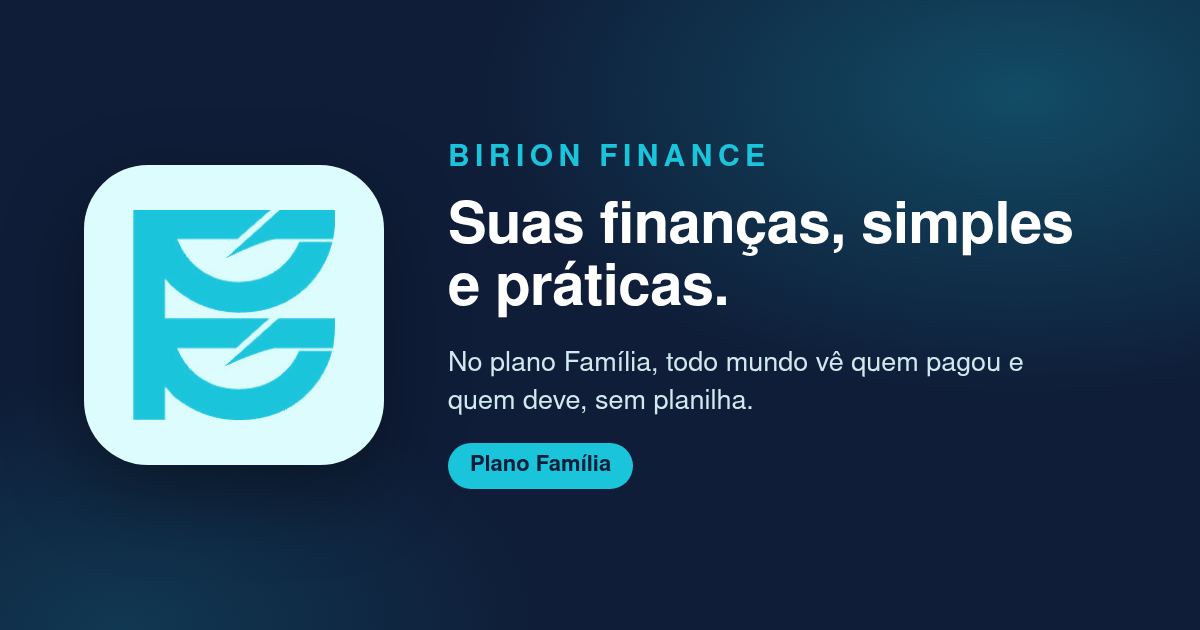
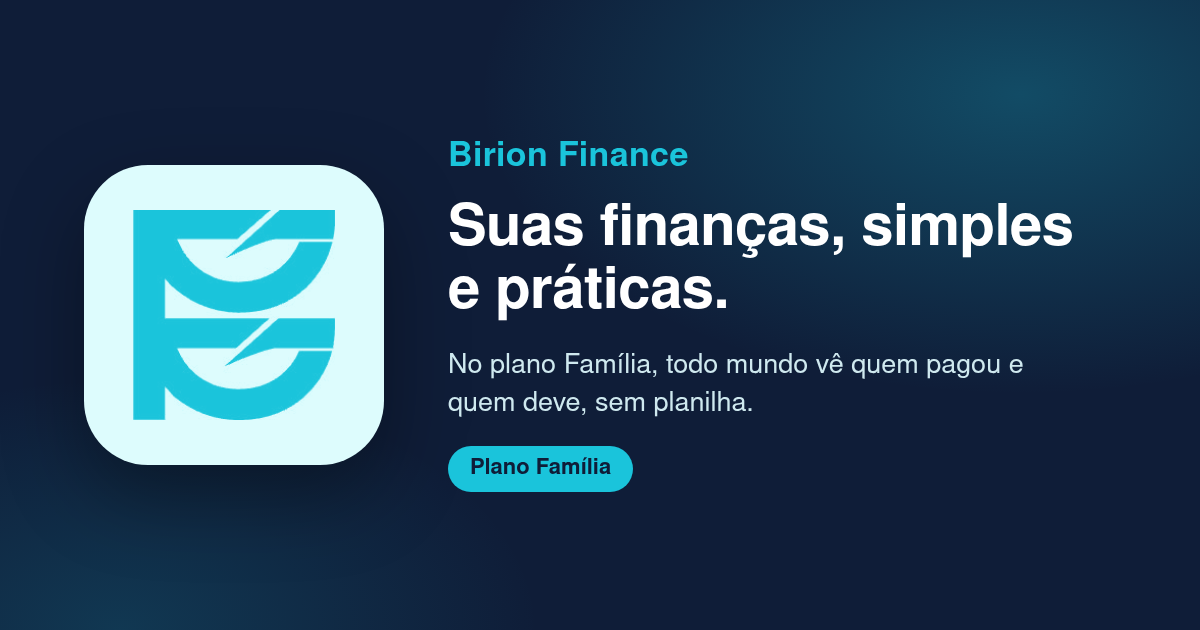
style(finance): nome Birion Finance (sem caixa alta) e títulos no formato Página - Birion Finance
- Marca, login, barra lateral, PDF, planilha, manifest, notificações e prévia do link
- Separador dos títulos das abas: " - " em vez de " · "

Claude-Session: https://claude.ai/code/session_01FJmr3E5kBtxwBWchFQH1qx

diff --git a/src/app/layout.tsx b/src/app/layout.tsx
@@ -8,21 +8,21 @@ import "./globals.css";
 const inter = Inter({ variable: "--font-sans", subsets: ["latin"], display: "swap" });
 
 // Prévia do link (WhatsApp, Instagram, iMessage…): a logo (opengraph-image.png) e o diferencial.
-const SHARE_TITLE = "BIRION FINANCE · Suas finanças, simples e práticas";
+const SHARE_TITLE = "Birion Finance - Suas finanças, simples e práticas";
 const SHARE_DESCRIPTION =
   "Finanças simples e práticas. No plano Família, todo mundo vê quem pagou e quem deve, sem planilha.";
 
 export const metadata: Metadata = {
   // Endereço do site publicado (o Netlify define URL); serve para a imagem da prévia ter o link completo.
   metadataBase: new URL(process.env.URL ?? "https://birion-finance.netlify.app"),
-  title: { default: "BIRION FINANCE", template: "%s · BIRION FINANCE" },
+  title: { default: "Birion Finance", template: "%s - Birion Finance" },
   description: SHARE_DESCRIPTION,
-  applicationName: "BIRION FINANCE",
-  appleWebApp: { capable: true, title: "BIRION", statusBarStyle: "default" },
+  applicationName: "Birion Finance",
+  appleWebApp: { capable: true, title: "Birion", statusBarStyle: "default" },
   openGraph: {
     type: "website",
     locale: "pt_BR",
-    siteName: "BIRION FINANCE",
+    siteName: "Birion Finance",
     title: SHARE_TITLE,
     description: SHARE_DESCRIPTION,
   },

diff --git a/src/app/api/exportar/route.ts b/src/app/api/exportar/route.ts
@@ -57,7 +57,7 @@ export async function GET(req: Request) {
   });
 
   const wb = new ExcelJS.Workbook();
-  wb.creator = "BIRION FINANCE";
+  wb.creator = "Birion Finance";
   wb.created = r.generatedAt;
   // Foto de quem é o extrato (e de quem enviou), no canto da faixa de título de cada aba.
   const face = r.subject ?? r.owner;
@@ -76,7 +76,7 @@ export async function GET(req: Request) {
   const banner = (ws: ExcelJS.Worksheet, text: string, cols: number) => {
     ws.mergeCells(1, 1, 1, cols);
     const t = ws.getCell(1, 1);
-    t.value = `BIRION FINANCE  ·  ${text}  ·  ${face.name}`;
+    t.value = `Birion Finance - ${text} - ${face.name}`;
     t.font = { bold: true, size: 16, color: { argb: WHITE } };
     t.fill = fill(NAVY);
     t.alignment = { vertical: "middle", indent: 1 };
@@ -174,7 +174,7 @@ export async function GET(req: Request) {
       },
     };
     ws.headerFooter = {
-      oddFooter: `&L&8BIRION FINANCE · ${r.family}&R&8${title} · página &P de &N`,
+      oddFooter: `&L&8Birion Finance - ${r.family}&R&8${title} - página &P de &N`,
     };
   };
 

diff --git a/src/components/tutorial.tsx b/src/components/tutorial.tsx
@@ -31,8 +31,8 @@ const STEPS: Step[] = [
   // ---------- Começo ----------
   {
     chapter: "Começo",
-    title: "Bem-vindo ao BIRION",
-    text: "O BIRION organiza o dinheiro que você divide com outras pessoas: quem pagou, quem deve, quanto sai de cartão e o que ainda vai entrar. Este guia passa por **cada tela** e mostra para que serve cada campo. Dá para sair quando quiser e voltar pelo botão **Tutorial**.",
+    title: "Bem-vindo ao Birion",
+    text: "O Birion organiza o dinheiro que você divide com outras pessoas: quem pagou, quem deve, quanto sai de cartão e o que ainda vai entrar. Este guia passa por **cada tela** e mostra para que serve cada campo. Dá para sair quando quiser e voltar pelo botão **Tutorial**.",
     demo: "people",
   },
   // ---------- Painel ----------

diff --git a/src/app/(print)/exportar/[mes]/page.tsx b/src/app/(print)/exportar/[mes]/page.tsx
@@ -102,7 +102,7 @@ export default async function ReportPage({
       <article className="rep-page">
         <header className="rep-head">
           <div>
-            <p className="rep-brand">BIRION FINANCE</p>
+            <p className="rep-brand">Birion Finance</p>
             <h1>{r.title.replace(/^./, (c) => c.toUpperCase())}</h1>
             {/* De quem é o extrato (foto e nome) e, se for de outra pessoa, quem mandou. */}
             <div className="rep-people">
@@ -279,7 +279,7 @@ export default async function ReportPage({
           d={d}
         />
         <footer className="rep-foot">
-          BIRION FINANCE · {r.family} · {r.title}
+          Birion Finance - {r.family} - {r.title}
         </footer>
       </article>
     </div>

diff --git a/src/components/notifications.tsx b/src/components/notifications.tsx
@@ -160,7 +160,7 @@ export function NotificationCenter({ initial, cardAlerts, currency }: { initial:
     });
     if (document.hidden && browserOptIn()) {
       try {
-        const n = new Notification("BIRION FINANCE", { body: fresh.length === 1 ? first.text : `${fresh.length} novidades: ${first.text}`, tag: "bf-" + first.id, icon: "/brand/mark.png" });
+        const n = new Notification("Birion Finance", { body: fresh.length === 1 ? first.text : `${fresh.length} novidades: ${first.text}`, tag: "bf-" + first.id, icon: "/brand/mark.png" });
         n.onclick = () => {
           window.focus();
           window.dispatchEvent(new Event(OPEN_EVENT));

diff --git a/src/components/auth/brand-panel.tsx b/src/components/auth/brand-panel.tsx
@@ -9,12 +9,12 @@ const BENEFITS = [
 /** Painel esquerdo: marca, título, descrição e benefícios. */
 export function BrandPanel() {
   return (
-    <section className="brand-panel" aria-label="BIRION FINANCE">
+    <section className="brand-panel" aria-label="Birion Finance">
       <div className="brand-logo">
         {/* eslint-disable-next-line @next/next/no-img-element */}
         <img src="/brand/mark.png" alt="" />
         <span>
-          BIRION <em>FINANCE</em>
+          Birion <em>Finance</em>
         </span>
       </div>
       <div className="brand-content">

diff --git a/src/app/(auth)/layout.tsx b/src/app/(auth)/layout.tsx
@@ -21,7 +21,7 @@ export default function AuthLayout({ children }: LayoutProps<"/">) {
             {/* Celular: a marca e a frase ficam no mesmo bloco do login (no computador estão no painel ao lado). */}
             <div className="auth-mobile-brand">
               <p className="auth-mobile-name">
-                BIRION <span>FINANCE</span>
+                Birion <span>Finance</span>
               </p>
               <p className="auth-mobile-tagline">
                 Organize suas finanças de forma <em>simples e eficiente.</em>

diff --git a/src/app/(audit)/auditoria/layout.tsx b/src/app/(audit)/auditoria/layout.tsx
@@ -10,7 +10,7 @@ export default async function AuditLayout({ children }: { children: React.ReactN
     <div className="audit-shell">
       <header className="audit-top">
         <Link href="/auditoria" className="audit-brand">
-          <Eye size={18} strokeWidth={1.8} aria-hidden /> BIRION · Auditoria
+          <Eye size={18} strokeWidth={1.8} aria-hidden /> Birion - Auditoria
         </Link>
         <span className="audit-ro">Só leitura</span>
         <span className="grow" />

diff --git a/src/app/(audit)/auditoria/familia/[id]/page.tsx b/src/app/(audit)/auditoria/familia/[id]/page.tsx
@@ -6,7 +6,7 @@ import { Avatar } from "@/components/ui";
 import { requireAuditor } from "@/lib/auth";
 import { auditHousehold } from "@/lib/audit";
 
-export const metadata: Metadata = { title: "Família · Auditoria" };
+export const metadata: Metadata = { title: "Família - Auditoria" };
 
 const when = (d: Date | string) =>
   new Date(d).toLocaleString("pt-BR", { day: "2-digit", month: "short", year: "numeric", hour: "2-digit", minute: "2-digit", timeZone: "America/Sao_Paulo" });

diff --git a/src/components/push-settings.tsx b/src/components/push-settings.tsx
@@ -109,7 +109,7 @@ export function PushSettings() {
           <li>
             Escolha <SquarePlus size={14} aria-hidden /> <strong>Adicionar à Tela de Início</strong>.
           </li>
-          <li>Abra o BIRION pelo ícone novo e volte aqui, no sino, para ativar.</li>
+          <li>Abra o Birion pelo ícone novo e volte aqui, no sino, para ativar.</li>
         </ol>
       </div>
     );

diff --git a/public/sw.js b/public/sw.js
@@ -10,7 +10,7 @@ self.addEventListener("push", (event) => {
     data = { body: event.data ? event.data.text() : "" };
   }
   event.waitUntil(
-    self.registration.showNotification(data.title || "BIRION FINANCE", {
+    self.registration.showNotification(data.title || "Birion Finance", {
       body: data.body || "",
       icon: "/brand/icon-192.png",
       badge: "/brand/icon-192.png",

diff --git a/src/app/(audit)/auditoria/page.tsx b/src/app/(audit)/auditoria/page.tsx
@@ -27,7 +27,7 @@ export default async function AuditPage() {
       <div className="page-head">
         <div>
           <h1>Auditoria</h1>
-          <p className="muted">Quem usa o BIRION e o que cada pessoa fez. Nada aqui pode ser alterado.</p>
+          <p className="muted">Quem usa o Birion e o que cada pessoa fez. Nada aqui pode ser alterado.</p>
         </div>
       </div>
 
